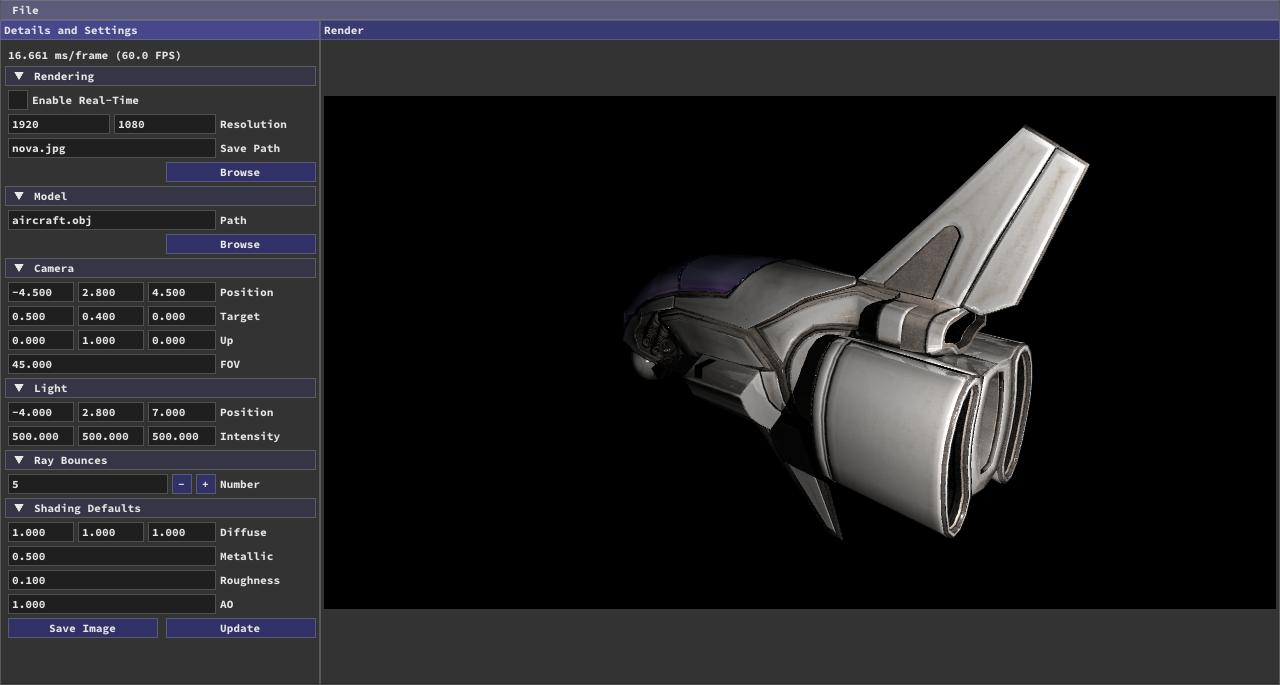
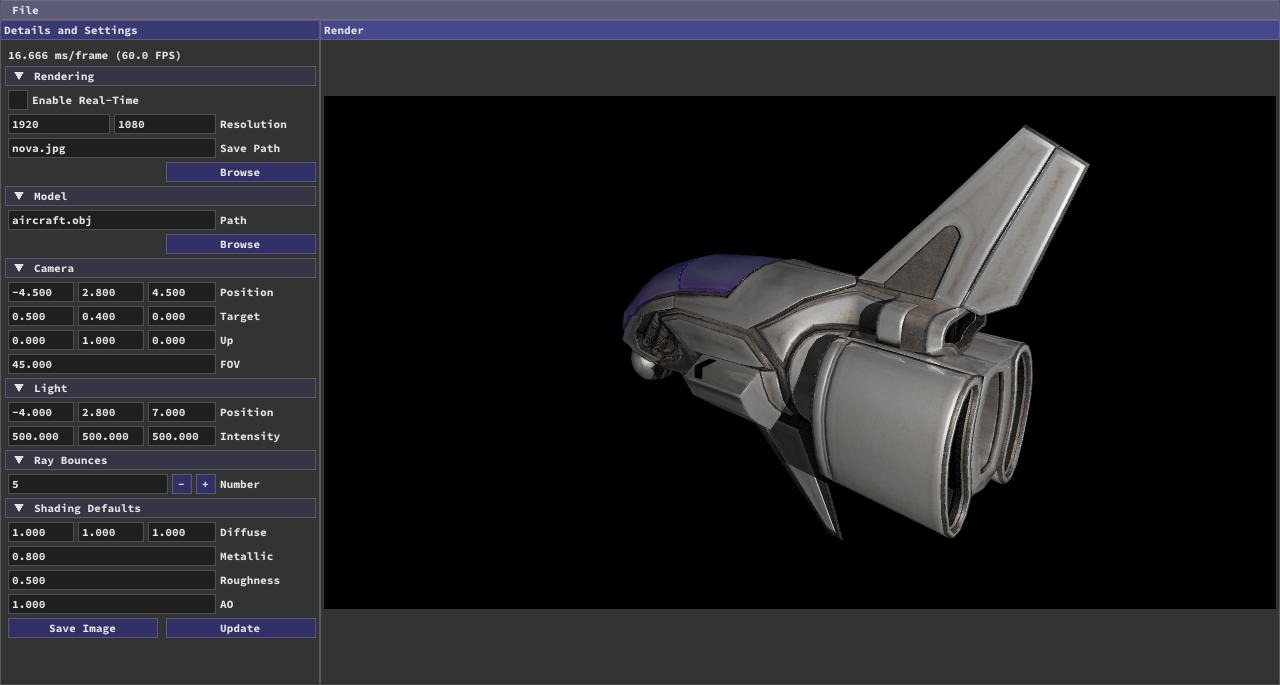
Gamma correction and tone mapping

Changed region(s): [[0.4688, 0.1839, 0.8438, 0.7971], [0.0, 0.0307, 1.0, 0.0613]]

diff --git a/src/material/material_loader.cpp b/src/material/material_loader.cpp
@@ -1,3 +1,5 @@
+#include <algorithm>
+#include <cmath>
 #include <numeric>
 #include <stb_image.h>
 
@@ -8,8 +10,18 @@ namespace nova {
 
 MaterialLoader::MaterialLoader() { stbi_set_flip_vertically_on_load(true); }
 
-int MaterialLoader::load_material(const char* path) {
-  materials.emplace_back(image_utils::read_image(path));
+int MaterialLoader::load_material(const char* path, bool srgb) {
+  image_utils::image im = image_utils::read_image(path);
+  if (srgb) {
+    constexpr auto gamma_correct = [](uint8_t x) -> uint8_t {
+      return std::pow(x / 255.0f, 2.2f) * 255.0f;
+    };
+    std::for_each(im.data.begin(), im.data.end(), [&](uchar4& pixel) {
+      pixel = { gamma_correct(x(pixel)), gamma_correct(y(pixel)), gamma_correct(z(pixel)),
+                w(pixel) };
+    });
+  }
+  materials.emplace_back(im);
   return static_cast<int>(materials.size() - 1);
 }
 

diff --git a/kernels/cuda/vector_math.h b/kernels/cuda/vector_math.h
@@ -1057,6 +1057,18 @@ inline __device__ __host__ float4 smoothstep(float4 a, float4 b, float4 x) {
 inline __device__ __host__ float3 mix(float3 a, float3 b, float w) { return (1.0 - w) * a + w * b; }
 
 ////////////////////////////////////////////////////////////////////////////////
+// pw
+////////////////////////////////////////////////////////////////////////////////
+
+inline __host__ __device__ float3 pow(float3 a, float3 b) {
+  return make_float3(pow(a.x, b.x), pow(a.y, b.y), pow(a.z, b.z));
+}
+
+inline __host__ __device__ float3 pow(float3 a, float b) {
+  return make_float3(pow(a.x, b), pow(a.y, b), pow(a.z, b));
+}
+
+////////////////////////////////////////////////////////////////////////////////
 // comparisons and conditionals
 ////////////////////////////////////////////////////////////////////////////////
 

diff --git a/src/model/model.cpp b/src/model/model.cpp
@@ -191,7 +191,8 @@ int Model::load_materials(aiMaterial* material, aiTextureType type) {
   // TODO: Support more than one texture
   aiString path;
   material->GetTexture(type, 0, &path);
-  return material_loader.load_material((directory + path.C_Str()).c_str());
+  bool srgb = type == aiTextureType_DIFFUSE;
+  return material_loader.load_material((directory + path.C_Str()).c_str(), srgb);
 }
 
 const std::vector<std::pair<Triangle, TriangleMeta>>& Model::get_triangles() const {

diff --git a/kernels/cuda/transforms.hpp b/kernels/cuda/transforms.hpp
@@ -19,6 +19,10 @@ triangle_interpolate(float3 barycentric_coords, float2 a, float2 b, float2 c) {
 
 __device__ inline int linear_index(int2 p, int width) { return p.y * width + p.x; }
 
+__device__ inline float3 tone_map(float3 x) { return x / (x + 1.0f); }
+
+__device__ inline float3 gamma_correct(float3 x) { return pow(x, 1.0f / 2.2f); }
+
 }
 
 #endif // CUDA_KERNEL_TRANSFORMS_HPP

diff --git a/src/material/material_loader.hpp b/src/material/material_loader.hpp
@@ -16,7 +16,7 @@ class MaterialLoader {
 public:
   MaterialLoader();
 
-  int load_material(const char* path);
+  int load_material(const char* path, bool srgb = false);
   void clear();
   MaterialData build() const;
 
